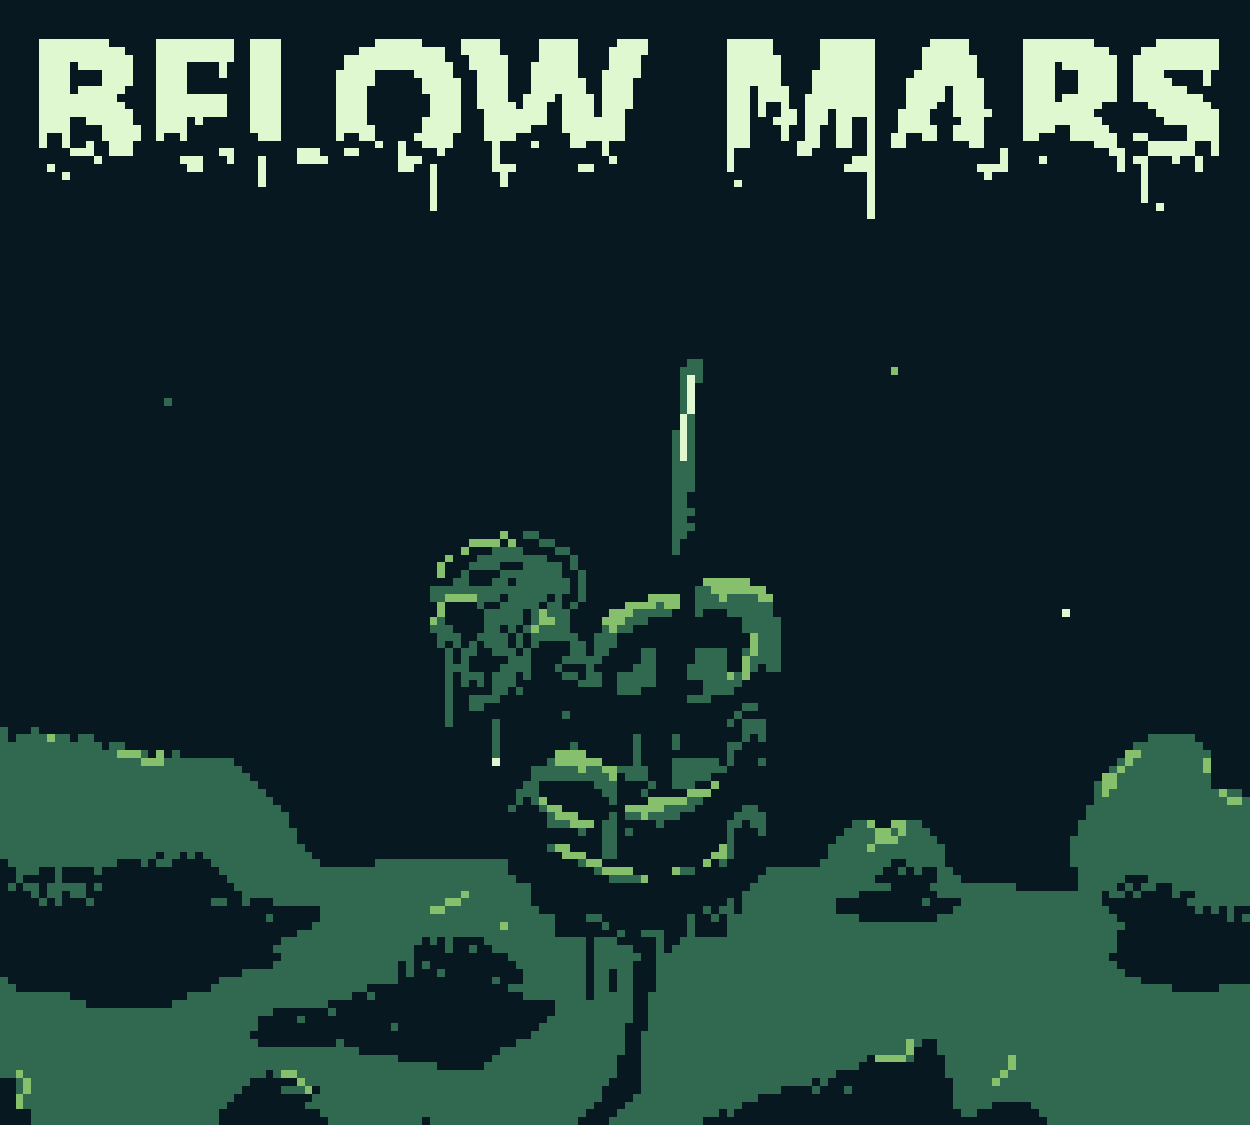
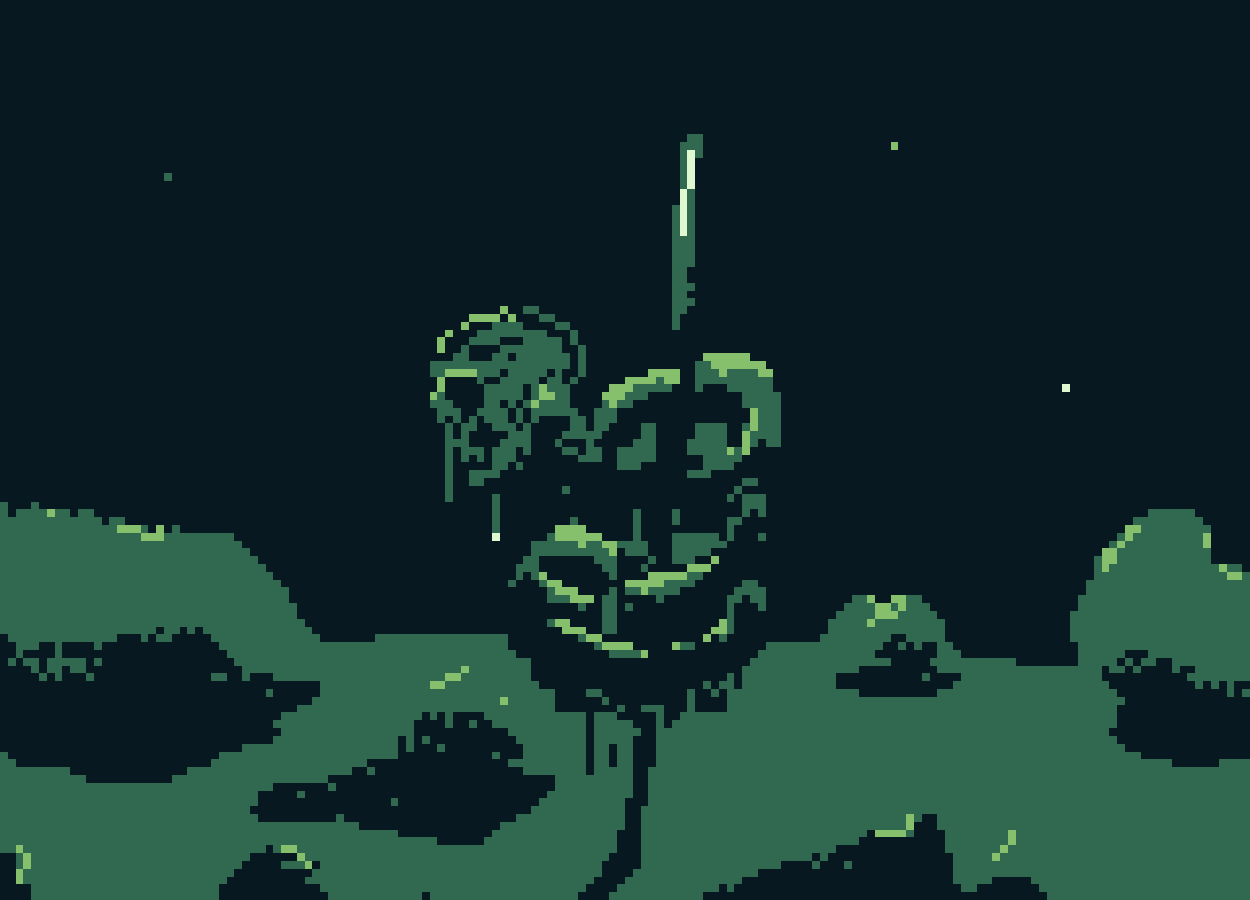
separating title from bg

diff --git a/css/main.css b/css/main.css
@@ -10,3 +10,11 @@ body, html {
   background-repeat: no-repeat;
   background-size: cover;
 }
+
+.title {
+ background-image: url('https://raw.githubusercontent.com/belowmars/belowmars.github.io/master/img/title.png');
+  height: 100%;
+  background-position: center;
+  background-repeat: no-repeat;
+  background-size: cover;
+}

diff --git a/index.html b/index.html
@@ -7,7 +7,9 @@
   </head>
   <body>
   
-<div class="bg"></div>
+<div class="bg">
+<div class="title"></div>
+</div>
   
   </body>
 </html>
